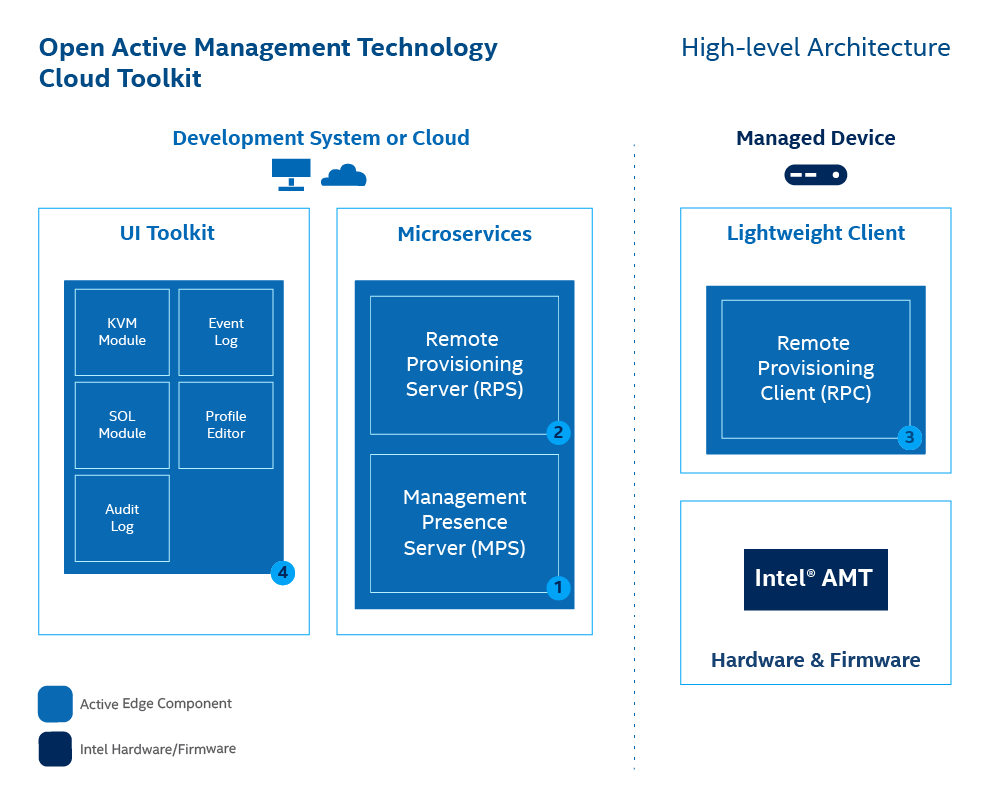
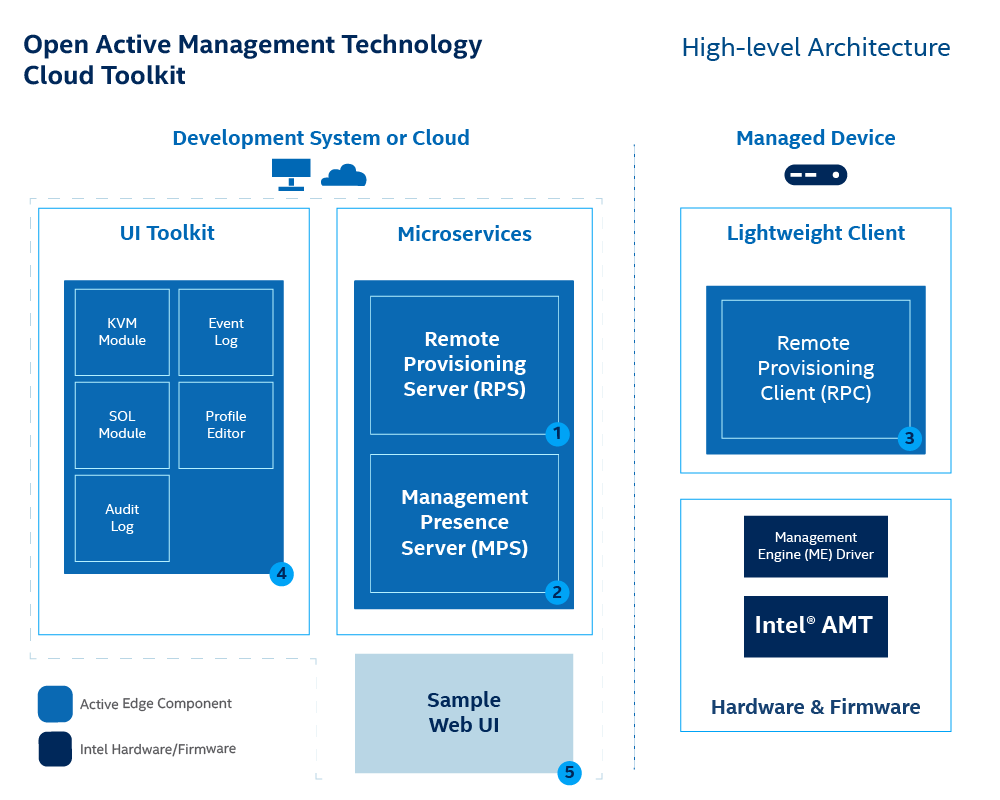
docs: changes to RPC build instruction flow and misc.

diff --git a/docs/Microservices/overview.md b/docs/Microservices/overview.md
@@ -3,18 +3,26 @@ Figure 1 illustrates the high-level architecture of Open Active Management Techn
 [![ManualDeploymentWorkflow.png](../assets/images/AEHighLevelArch.png)](../assets/images/AEHighLevelArch.png)
 **Figure 1: Deploy Management Presence Server (MPS) and the Remote Provisioning Server (RPS) on a development system.**
 
-As shown in Figure 1, the architecture consists of four components:
+As shown in Figure 1, the architecture consists of five components:
 
 1. **MPS** - A microservice that uses an Intel vPro® platform feature, Client Initiated Remote Access (CIRA), for enabling edge, cloud devices to maintain a persistent connection for out-of-band manageability features, such as power control or Keyboard, Video, and Mouse (KVM) control.
 2. **RPS** - A microservice that activates Intel® Active Management Technology (AMT) using predefined profiles and connects them to the MPS for manageability use cases.
 3. **RPC** - A lightweight client application that communicates with the RPS server to activate Intel® AMT.
 4. **UI Toolkit** - A toolkit that includes prebuilt React components and a reference implementation web console. The React-based snippets simplify the task of adding complex manageability-related UI controls, such as the KVM, to a console. 
-5. **Sample Web UI** - A web based UI that demonstrates how to use the UI-Toolkit. It also provides a way to interact with the microservices and to help provide context as to how each microservice is used.
+5. **Sample Web UI** - A web based UI that demonstrates how to use the UI Toolkit. It also provides a way to interact with the microservices and to help provide context as to how each microservice is used.
 
 
-## Out-of-band (OOB) Management 
+## Out-of-band Management (OOBM)
 
-Open AMT Cloud Toolkit uses remote management technology, also known as out-of-band (OOB) management, to allow administrators to perform actions on network assets or devices using a secure alternative to LAN-based communication protocols. Actions include reboot, power up, power down, system updates, and more. As long as the network device or asset is connected to power, Open AMT Cloud Toolkit software can perform remote management, including powering up as a system that is currently powered down.   
+Open AMT Cloud Toolkit uses remote management technology, also known as [out-of-band management (OOBM)](Glossary.md#o), to allow administrators to perform actions on network assets or devices using a secure alternative to LAN-based communication protocols. Actions include reboot, power up, power down, system updates, and more. As long as the network device or asset is connected to power, Open AMT Cloud Toolkit software can perform remote management, including powering up as a system that is currently powered down.  
+
+Remote management can offer potential cost-savings by decreasing the need for in-person technician visits to remote IT sites and reducing downtime.
+
+## What's the difference between in-band and out-of-band management?
+
+Remote monitoring and management software solutions often require the managed devices to be in the powered on state. The IT administrator connects to and updates the managed device while it is in the powered on state.
+
+With out-of-band management, the administrator can connect to the device when it has been powered down or it is unresponsive. 
 
 ### CIRA Configuration
 
@@ -22,28 +30,39 @@ CIRA enables OOB connections between Intel® AMT platforms and administrative de
 
 The [following steps](https://01.org/open-active-management-technology-cloud-toolkit/overview/management-presence-server) occur via a CIRA channel:
 
-1. A remote Intel vPro® platform featuring Intel® AMT is provisioned with CIRA enabled. The remote platform is referred to as the managed device. 
+1. A remote Intel vPro® platform featuring Intel® AMT is is activated and a CIRA configuration is applied. The remote platform is referred to as the managed device. 
 
-2. The managed device sends a secure connection request via Transport Layer Security (TLS) to the MPS on the development system.
+2. The managed device connects to the MPS and establishes an encrypted connection using Transport Layer Security (TLS) 
 
-3. After authentication, Intel vPro® platform information is stored in a database and sent to the management console.
+3. The Intel vPro® platform maintains a long standing connection with the MPS through the use of small *keep-alive* messages to the MPS.
 
-4. On the development system, the management console sends a command to the MPS.
+4. A management console sends a command to the MPS, via provided RESTful interfaces, with the command indicating the managed device should take some action.
 
-5. When an action is triggered on the development system, such as *power up*, the management console sends that command to the MPS. Both power control messages and keyboard, video and mouse (KVM) control messages are supported.
+5. The MPS authenticates the RESTful command and proxies the command for the management console to the managed device.  
 
-6. The MPS creates the WSMan message to the managed device.
+The MPS handles the authentication process with the managed device. 
 
-7. The managed device sends a *keep-alive* message to the MPS to maintain the connection. This message persists regardless of the state of the operating system, in-band or OOB.
+### Control Mode Profile
 
+Managed devices featuring Intel® AMT support two control modes: 
 
-### AMT Profile
+- [**Admin Control Mode (ACM): **](../Glossary.md#a)
+In this mode, there are no limitations to Intel® AMT functionality. This reflects the higher level of trust associated with these setup methods. No user consent is required.
 
-[TBD] Sed ut perspiciatis unde omnis iste natus error sit voluptatem accusantium doloremque laudantium, totam rem aperiam, eaque ipsa quae ab illo inventore veritatis et quasi architecto beatae vitae dicta sunt explicabo. Nemo enim ipsam voluptatem quia voluptas sit aspernatur aut odit aut fugit, sed quia consequuntur magni dolores eos qui ratione voluptatem sequi nesciunt. Neque porro quisquam est, qui dolorem ipsum quia dolor sit amet, consectetur, adipisci velit, sed quia non numquam eius modi tempora incidunt ut labore et dolore magnam aliquam quaerat voluptatem. Ut enim ad minima veniam, quis nostrum exercitationem ullam corporis suscipit laboriosam, nisi ut aliquid ex ea commodi consequatur? Quis autem vel eum iure reprehenderit qui in ea voluptate velit esse quam nihil molestiae consequatur, vel illum qui dolorem eum fugiat quo voluptas nulla pariatur?
+- [**Client Control Mode (CCM):**](../Glossary.md#c) This mode limits some of Intel® AMT functionality, reflecting the lower level of trust.
+
+    Features requiring User Consent:
+
+    - Keyboard, Video, Mouse (KVM) Control
+    - IDE-Redirection for sharing and mounting images remotely
+
 
 ### Domains
 
-[TBD] At vero eos et accusamus et iusto odio dignissimos ducimus qui blanditiis praesentium voluptatum deleniti atque corrupti quos dolores et quas molestias excepturi sint occaecati cupiditate non provident, similique sunt in culpa qui officia deserunt mollitia animi, id est laborum et dolorum fuga. Et harum quidem rerum facilis est et expedita distinctio. Nam libero tempore, cum soluta nobis est eligendi optio cumque nihil impedit quo minus id quod maxime placeat facere possimus, omnis voluptas assumenda est, omnis dolor repellendus. Temporibus autem quibusdam et aut officiis debitis aut rerum necessitatibus saepe eveniet ut et voluptates repudiandae sint et molestiae non recusandae. Itaque earum rerum hic tenetur a sapiente delectus, ut aut reiciendis voluptatibus maiores alias consequatur aut perferendis doloribus asperiores repellat."
+In addition to a CIRA Config and an ACM AMT Profile, ACM requires the creation of a Domain profile.
+
+Intel® AMT checks the network DNS suffix against the provisioning certificate as a security check. During provisioning, the trusted certificate chain is injected into the AMT firmware. Intel® AMT verifies that the certificate chain is complete and is signed by a trusted certificate authority.
+
 
 ## Power Control 
 
@@ -55,9 +74,9 @@ With the established CIRA channel, Open AMT Cloud Toolkit enables the administra
 - reset
 - reset to BIOS
 
-For more information about power states and REST APIs, see Power States for more details. 
+For more information about power states and REST APIs, see [Intel® AMT Implementation and Reference Guide](https://software.intel.com/sites/manageability/AMT_Implementation_and_Reference_Guide/default.htm?turl=WordDocuments%2Fchangesystempowerstate.htm) for more details. 
 
-## KVM Control
+## Keyboard, Video, Mouse (KVM) Control
 
-[TBD] Et iusto odio dignissimos ducimus qui blanditiis praesentium voluptatum deleniti atque corrupti quos dolores et quas molestias excepturi sint occaecati cupiditate non provident, similique sunt in culpa qui officia deserunt mollitia animi, id est laborum et dolorum fuga. Et harum quidem rerum facilis est et expedita distinctio. Nam libero tempore, cum soluta nobis est eligendi optio cumque nihil impedit quo minus id quod maxime placeat facere possimus, omnis voluptas assumenda est, omnis dolor repellendus. Temporibus autem quibusdam et aut officiis debitis aut rerum necessitatibus saepe eveniet ut et voluptates repudiandae sint et molestiae non recusandae. Itaque earum rerum hic tenetur a sapiente delectus, ut aut reiciendis voluptatibus maiores alias consequatur aut perferendis doloribus asperiores repellat."
+Intel® AMT enables remote management of a device, even when the OS isn't running, through KVM over IP support. No additional equipment is needed for this feature.  With KVM control, IT administrators can access and update PCs and devices as if they were onsite. It eliminates the need for remote KVM switches and other hardware. 
 

diff --git a/docs/General/buildRPC.md b/docs/General/buildRPC.md
@@ -1,10 +1,4 @@
-Estimated completion time:
-
-- 30 minutes on Windows 10 devices (20-25 minutes are required installation time estimates)
-- 15 minutes on Linux devices
-
-
-## Remote Provisioning Client
+<!-- [![RPC](../assets/animations/forkandbuild.gif)](../assets/animations/forkandbuild.gif =500x) -->
 
 The Remote Provisioning Client (RPC) communicates with the Manageability Engine Interface (MEI) and RPS interfaces. The MEI uses the ME Driver to talk to Intel AMT. By running RPC, we will activate Intel AMT into Client Control Mode (CCM), or ACM based on the created profile, as well as configure the CIRA connection of the AMT device to the MPS. After successfully running, the AMT device will be ready to be managed remotely using the web interface!
 
@@ -13,116 +7,40 @@ The Remote Provisioning Client (RPC) communicates with the Manageability Engine 
 
 [![RPC](../assets/images/RPC_Overview.png)](../assets/images/RPC_Overview.png)
 
-
-### Clone the Repository
-
-1. On your development system, navigate to a directory of your choice to clone and build RPC.
-
-2. Clone the RPC repository.
-
-    ``` bash
-    git clone https://github.com/open-amt-cloud-toolkit/rpc.git && cd rpc
-    ```
-
-### Install Prerequisites
-
-=== "Windows"
-    Open 'x64 Native Tools Command Prompt for VS 20XX' as Administrator on your development system.  **This is NOT a regular Windows Command Prompt.**  This specific tool is used for compiling the RPC executable.
-    
-    ![NTCP](../assets/images/x64NativeToolsCP.png)
-
-    Build VCPKG
-
-
-    1. In the `rpc` directory, clone the Vcpkg repository. Vcpkg is a C/C++ Library Manager for Windows that was created by Microsoft.  Find out more about it [here](https://github.com/microsoft/vcpkg).
-
-        ``` bash
-        git clone --branch 2020.01 https://github.com/microsoft/vcpkg.git && cd vcpkg
-        ```
-
-    2. Build `vcpkg.exe` using the following command:
-
-        ``` bash
-        bootstrap-vcpkg.bat
-        ```
-        
-    3. Set up user-wide integration in order to allow Vcpkg to work with Visual Studio. 
-
-        ``` bash
-        vcpkg integrate install
-        ```
-
-    Build CPPRestSDK
-
-    1. Make sure you are still in the ../vcpkg directory.
-
-    2. Install the C++ REST SDK package using Vcpkg. C++ REST SDK is a library for cloud-based client-server communication with modern API design.  Find out more about it [here](https://github.com/microsoft/cpprestsdk).
-
-        !!! note
-            This will take 15–25 minutes, depending on download speeds.
-
-        ``` bash
-        vcpkg install cpprestsdk:x64-windows-static
-        ```
-    3. Navigate back to the `./rpc` directory
-
-        ``` bash
-        cd ..
-        ```
-
-=== "Linux"
-    1. To install the required dependencies; enter the following command:
-
-        ``` bash
-        sudo apt install git cmake build-essential libboost-system-dev libboost-thread-dev libboost-random-dev libboost-regex-dev  libboost-filesystem-dev libssl-dev zlib1g-dev
-        ```
-
 ### Build RPC
-    
-1. Create a new directory called `build` within the `./rpc` directory and change to it.
 
-    ``` bash
-    mkdir build && cd build
-    ```
+We leverage GitHub Actions as a means to build RPC automatically leveraging Github's CI/CD Infrastructure. This avoids having to deal with the challenges of getting your build environment just right on your local machine and allows you to get up and running much faster. However, if you wish to do this locally, please follow the instructions [here](./buildRPC.md).
 
-2. Run the following commands to build RPC.
+Read more about GitHub Actions [here](https://github.blog/2019-08-08-github-actions-now-supports-ci-cd/#:~:text=GitHub%20Actions%20is%20an%20API,every%20step%20along%20the%20way.)
 
-    === "Windows"
+If you prefer to build manually on the command line, read more about how to build [here](../Microservices/RPC/buildRPC_Manual.md).
 
-        Generate the CMake config
-        ``` bash
-        cmake .. -DVCPKG_TARGET_TRIPLET=x64-windows-static -DCMAKE_TOOLCHAIN_FILE=../vcpkg/scripts/buildsystems/vcpkg.cmake
-        ```
+<img src="../../assets/animations/forkandbuild.gif" width="500"  />
 
-        Build the RPC executable
-        ```bash
-        cmake --build . --config Debug
-        ```
+**To build the RPC with Github Actions:**
 
-        Change to Debug directory
-        ``` bash
-        cd Debug
-        ```
+1. Create a fork of the repository.
 
-        Save the rpc.exe file to a flash drive or other means to transfer to the managed device.
-            
-    === "Linux"
-        ``` bash
-        cmake -DCMAKE_BUILD_TYPE=Debug ..
-        cmake --build .
-        ```
+    [Fork rpc on github](https://github.com/open-amt-cloud-toolkit/rpc/fork){: .md-button .md-button--primary }
 
-        Save the new 'rpc' file in the Build directory to a flash drive or other means to transfer to the managed device.
+2. Click on **Actions**, the tab at the top, and select **Build RPC (Native) Debug/Release**.
+
+3. Click the **Run Workflow** dropdown, select **Branch:master**, and click the **Run Workflow** button.
+
+4. Grab a coffee, as the build for Windows will take roughly 30 minutes and the build for Linux will take roughly 5 minutes.
+
+5. Once complete, click the completed job, and download the appropriate RPC for your OS under the **Artifacts** section.
 
 
 ### Run RPC to Activate and Connect the AMT Device
 
-1. Using a Flash Drive or other method, transfer the Debug folder to the managed device.
+**To run the application and connect the managed device: **
 
-2. On the managed device, run RPC with the following command to activate and configure Intel&reg; AMT. It will take 1-2 minutes to finish provisioning the device.
+1\. On the managed device, run RPC with the following command to activate and configure Intel&reg; AMT. It will take 1-2 minutes to finish provisioning the device.
 
 - Replace [Development-IP-Address] with the development system's IP address, where the MPS and RPS servers are running
 - Replace [profile-name] with your created profile from the Web Server.
+
 
 === "Windows"
     ```
@@ -133,6 +51,16 @@ The Remote Provisioning Client (RPC) communicates with the Manageability Engine 
     sudo ./rpc -u wss://[Development-IP-Address]:8080 -c "-t activate --profile [profile-name]"
     ```
 
+2\. Optionally, it is possible to cancel the check for a CA signed certificate and use a self-signed certificate with the **--nocertcheck** flag. 
+
+=== "Windows"
+    ```
+    rpc.exe -u wss://[Development-IP-Address]:8080 --nocertcheck -c "-t activate --profile [profile-name]"
+    ```
+=== "Linux"
+    ``` bash
+    sudo ./rpc -u wss://[Development-IP-Address]:8080 --nocertcheck -c "-t activate --profile [profile-name]"
+    ```
 
 Example Success Output:
 

diff --git a/docs/index.md b/docs/index.md
@@ -1,6 +1,6 @@
 # Overview
 
- [**Open Active Management Technology (Open AMT) Cloud Toolkit**](Glossary.md#o) provides open-source, modular microservices and libraries for integration of hardware provisioning, [out-of-band (OOB) manageability](Glossary.md#o), and other [Intel® Active Management Technology (Intel® AMT)](Glossary.md#i). As an open source implementation, the toolkit makes it easier for IT departments and independent software vendors (ISVs) to adopt, integrate, and customize out-of-band management solutions for [Intel vPro® platforms](Glossary.md#i).
+ [**Open Active Management Technology (Open AMT) Cloud Toolkit**](Glossary.md#o) provides open-source, modular microservices and libraries for integration of [Intel® Active Management Technology (Intel® AMT)](Glossary.md#i). As an open source implementation, the toolkit makes it easier for IT departments and independent software vendors (ISVs) to adopt, integrate, and customize [out-of-band management (OOB)](Glossary.md#o) solutions for [Intel vPro® platforms](Glossary.md#i).
 
 ![assets/images/OOBManagement.png](assets/images/OOBManagement.png)
 

diff --git a/docs/Local/installMPS.md b/docs/Local/installMPS.md
@@ -1,3 +1,7 @@
+
+
+The Open Active Management Technology (AMT) Cloud Toolkit repository includes: 
+
 - [Management Presence Server (MPS)](../Glossary.md#m)
 - [Remote Provisioning Server (RPS)](../Glossary.md#r)
 - [UI Toolkit](../Glossary.md#u)
